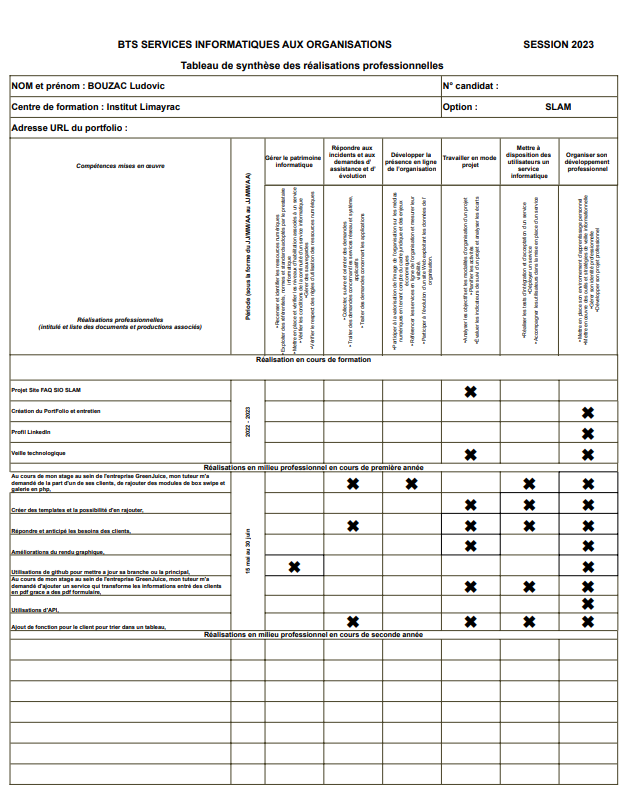
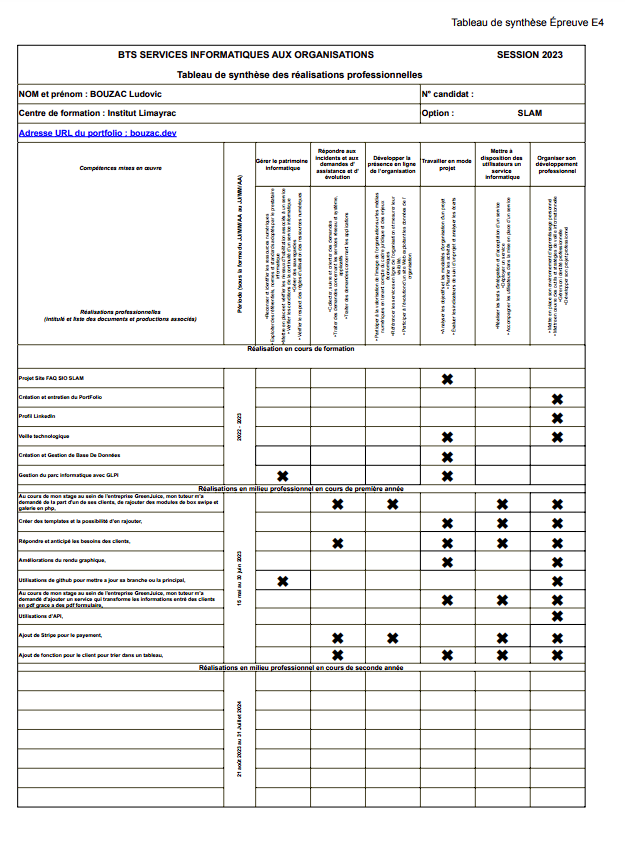
maj E4 tableau

Changed region(s): [[0.0, 0.0, 0.9728, 0.9912]]

diff --git a/index.html b/index.html
@@ -70,7 +70,7 @@
                 </div>
                 <div class="col-sm-12 col-md-6 d-none d-md-block">
                     <div class="hero-image">
-                        <img src="img/logo1.png" alt="testIMG">
+                        <img src="img/Logo1.png" alt="testIMG">
                     </div>
                 </div>
             </div>
